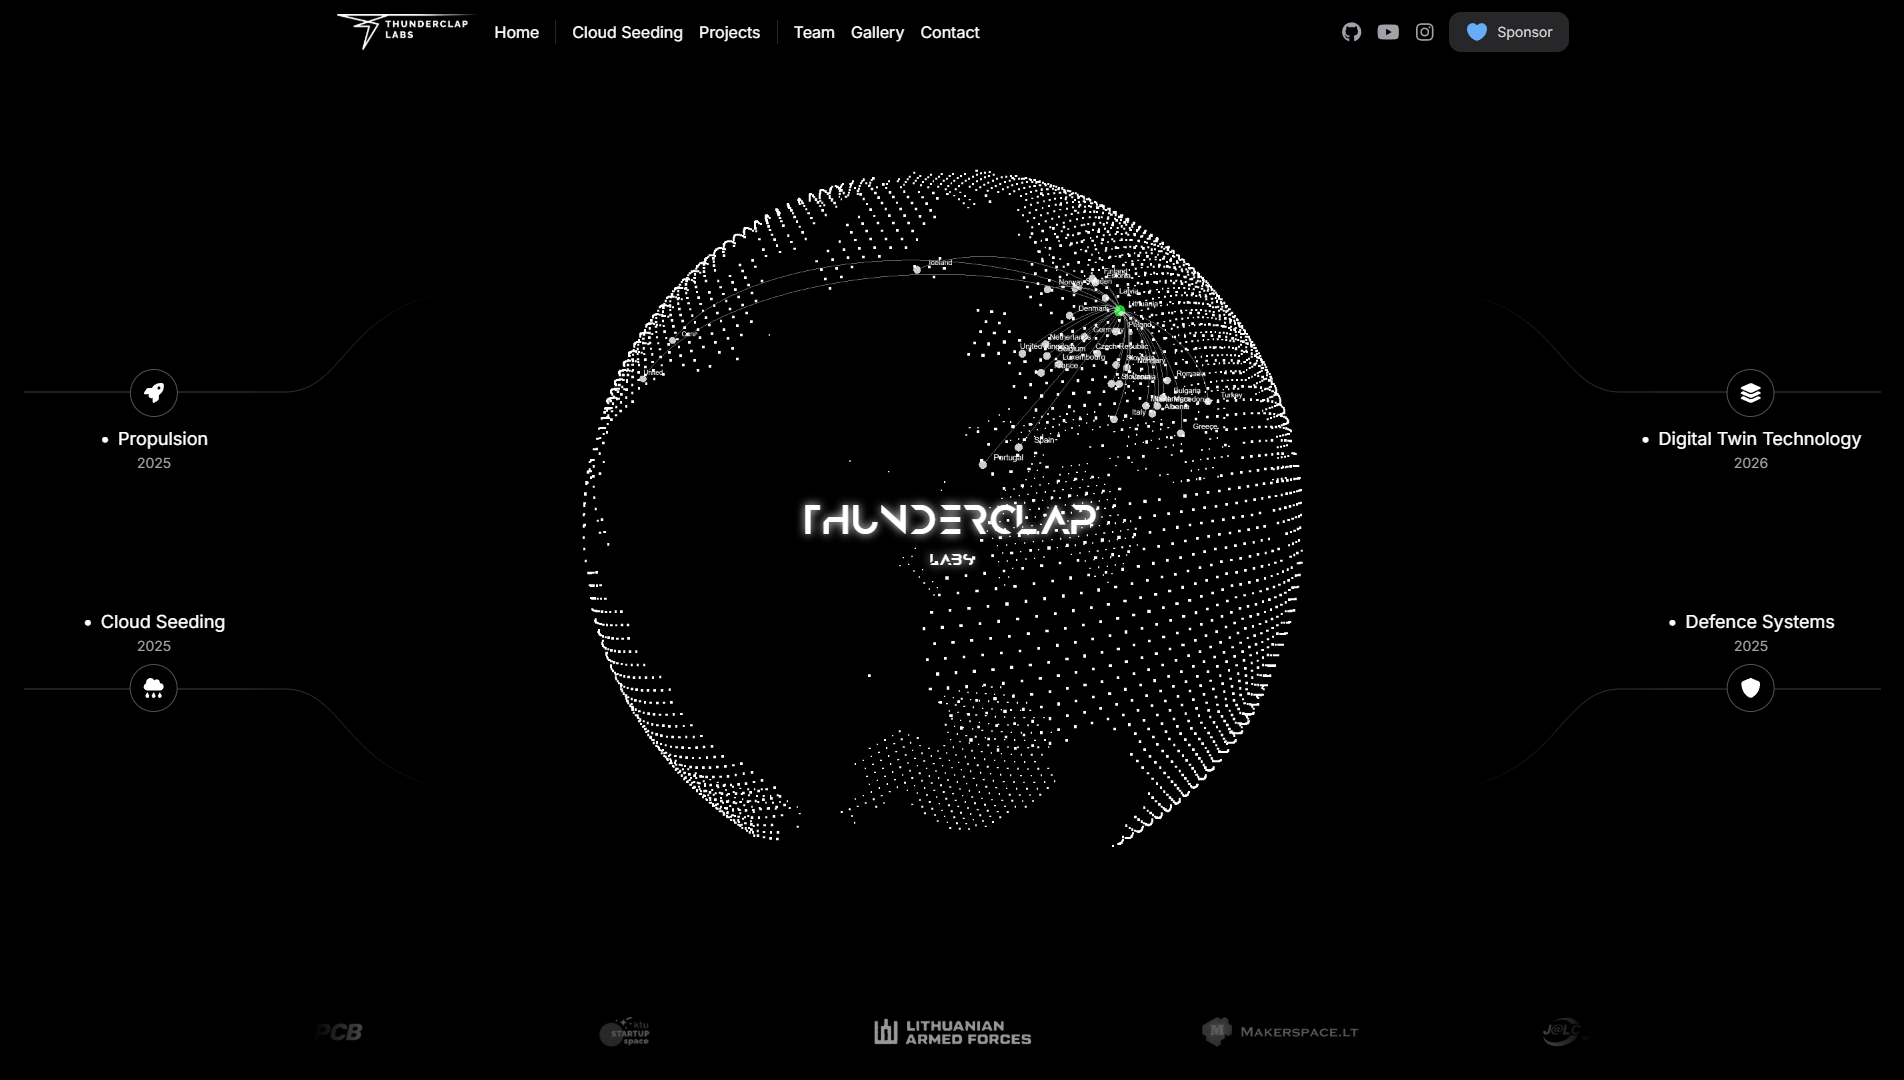
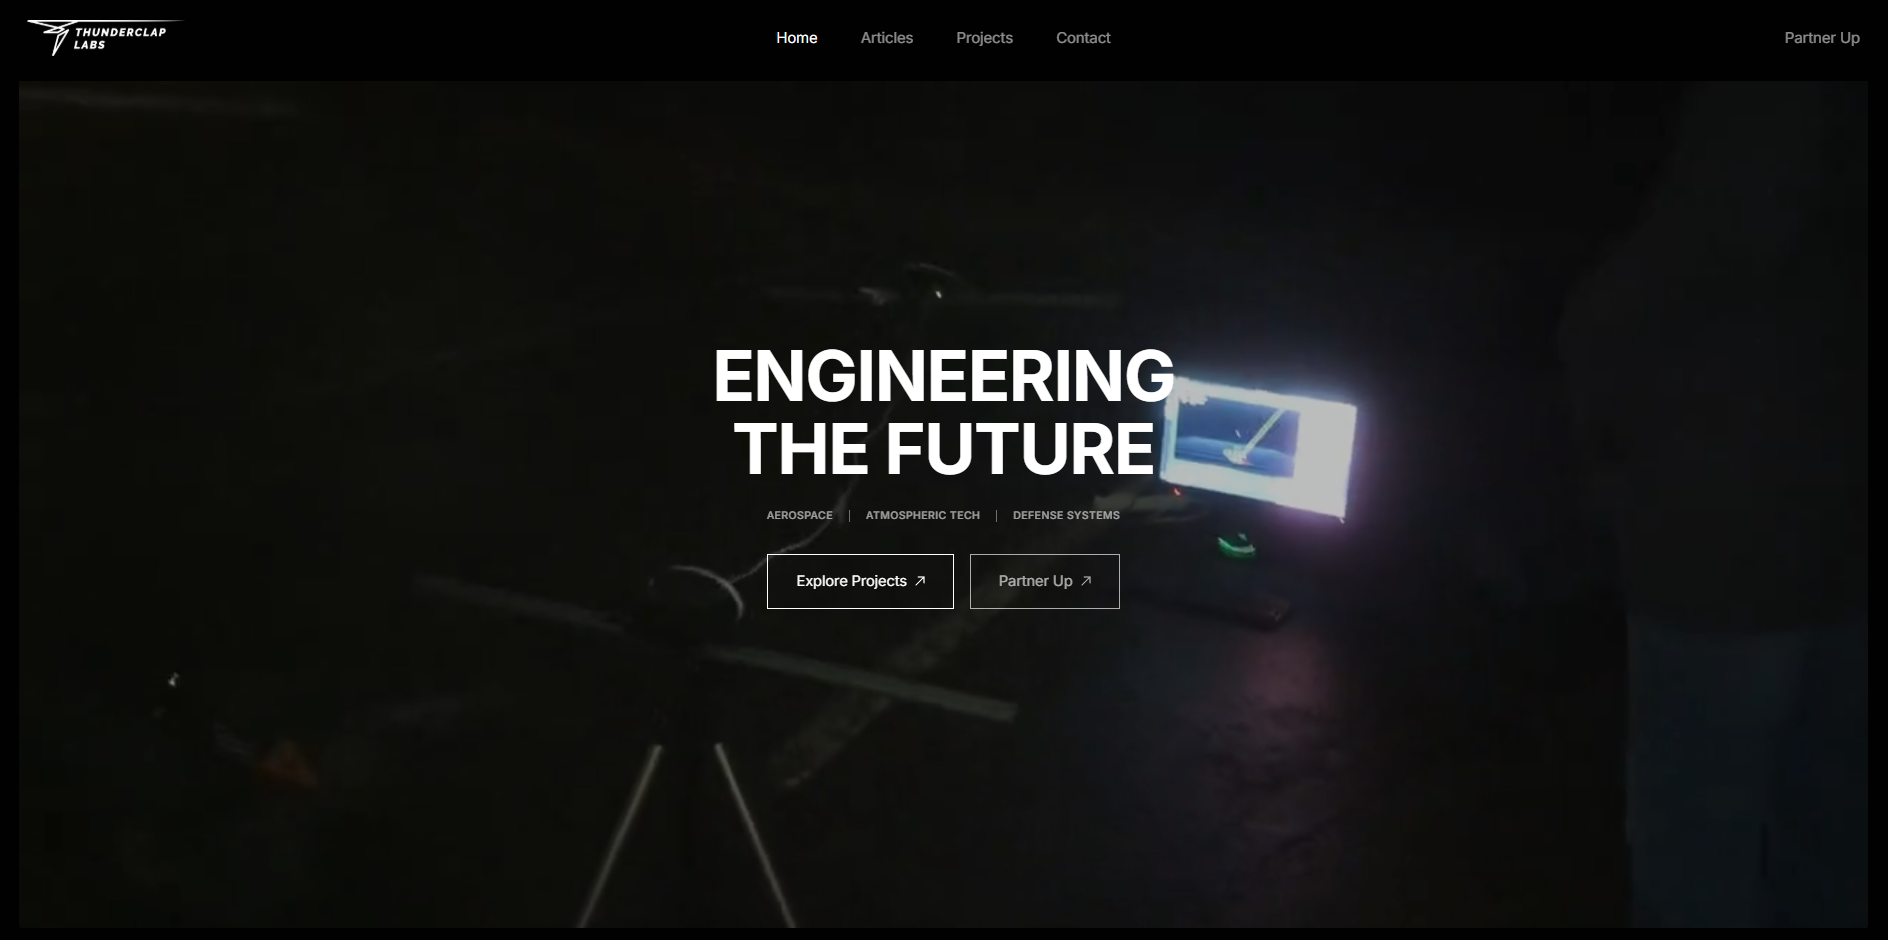
Added more projects and achievements

diff --git a/lib/projectsData.ts b/lib/projectsData.ts
@@ -3,6 +3,7 @@ import edullectus from '@/public/project_images/edullectus.png';
 import armilla from '@/public/project_images/Armilla.png';
 import lawcare from '@/public/project_images/lawcare.png';
 import thunderclap from '@/public/project_images/tclwebb.png';
+import thundereye from '@/public/project_images/tcltrack.gif';
 import nukesnshit from '@/public/project_images/nukesnshit.png';
 import cansat from '@/public/project_images/cansat.jpg';
 import fridge from '@/public/project_images/Fridge.jpg';
@@ -37,6 +38,33 @@ export interface Project {
 }
 
 export const projects: Project[] = [
+    {
+        title: 'Thunderclap Labs',
+        subTitle: "Web development",
+        date: "2024 - Present",
+        description: "Co-founded Thunderclap labs, Thunderclap Labs is at the forefront of innovation, developing critical technologies to solve complex global challenges. We build the platforms and systems that will define the next era of atmospheric management, aerospace capability, and beyond - Pioneering the next era of aerospace with a focus on rocket propulsion technologies, advanced launch systems, and sustainable aerospace solutions.",
+        image: thunderclap,
+        tags: ["AI (LLM - Gemini)", "Next", "PostgreSQL", "Tailwind", 'Python'],
+        mainLink: 'https://thunderclaplabs.com/',
+        links: {
+            website: 'https://thunderclaplabs.com/',
+            github: 'https://github.com/Thunderclap-Labs/website'
+        },
+        featured: true
+    },
+    {
+        title: 'ThunderEye',
+        subTitle: "Computer Vision / Defense Tech",
+        date: "2025 - Present",
+        description: "A compact, intelligent aerial detection platform that turns raw video into real aerial intelligence in real time. Using an array of synchronized cameras and stereo vision, ThunderEye detects moving aerial objects and reconstructs their position in 3D space — giving operators altitude, bearing, and distance, not just a pixel coordinate. Rather than relying solely on visual appearance, the system classifies objects by analyzing trajectory data over time: speed profiles, path consistency, hovering behavior, and flight envelope characteristics. Developed in partnership with the Lithuanian Riflemen's Union for counter-UAS scenarios.",
+        image: thundereye,
+        tags: ["C++", "Computer Vision", "Stereo Vision", "AI", "Edge Computing", "Defense"],
+        mainLink: 'https://thunderclaplabs.com/projects/thundereye',
+        links: {
+            website: 'https://thunderclaplabs.com/projects/thundereye',
+        },
+        featured: true
+    },
     {
         title: 'Edullectus',
         subTitle: "Web Development / AI",
@@ -74,20 +102,6 @@ export const projects: Project[] = [
         mainLink: 'https://lawcare.netlify.app',
         links: {
             website: 'https://lawcare.netlify.app'
-        },
-        featured: true
-    },
-    {
-        title: 'Thunderclap Labs',
-        subTitle: "Web development",
-        date: "2024 - Present",
-        description: "Co-founded Thunderclap labs, Thunderclap Labs is at the forefront of innovation, developing critical technologies to solve complex global challenges. We build the platforms and systems that will define the next era of atmospheric management, aerospace capability, and beyond - Pioneering the next era of aerospace with a focus on rocket propulsion technologies, advanced launch systems, and sustainable aerospace solutions.",
-        image: thunderclap,
-        tags: ["AI (LLM - Gemini)", "Next", "PostgreSQL", "Tailwind", 'Python'],
-        mainLink: 'https://thunderclaplabs.com/',
-        links: {
-            website: 'https://thunderclaplabs.com/',
-            github: 'https://github.com/Thunderclap-Labs/website'
         },
         featured: true
     },

diff --git a/lib/achievementsData.ts b/lib/achievementsData.ts
@@ -10,6 +10,21 @@ export interface AchievementItem {
 
 export const achievements: AchievementItem[] = [
   {
+    title: 'KTU Technorama 2026 - Best AI App & Grand Prize',
+    category: 'Competition',
+    description: 'Presented ThunderEye at KTU Technorama 2026 and won two top awards: the SustAInLivWork Best AI Application award and the event\'s Grand Prize.',
+    details: [
+      'Presented ThunderEye — a passive drone and bird detection system — at Santaka Valley',
+      'Received the SustAInLivWork Best AI Application award from the Centre of Excellence of AI for Sustainable Living and Working',
+      'Called back on stage to accept the event\'s Grand Prize',
+      'Left with a calendar full of scheduled meetings and concrete follow-ups with partners',
+      '<a href="https://www.linkedin.com/feed/update/urn:li:activity:7466749861841756162" class="text-blue-400 hover:text-blue-300 transition-colors" target="_blank">View announcement →</a>',
+    ],
+    link: 'https://www.linkedin.com/feed/update/urn:li:activity:7466749861841756162',
+    date: '2026',
+    icon: 'emoji_events',
+  },
+  {
     title: 'NASA Space Apps Challenge - Official Global Nominee',
     category: 'Competition',
     description: 'Developed an innovative solution for space exploration and achieved recognition as an Official Global Nominee in the prestigious NASA Space Apps Challenge.',

diff --git a/components/LiquidEther.tsx b/components/LiquidEther.tsx
@@ -307,7 +307,7 @@ export default function LiquidEther({
         this.manager = manager;
         this.enabled = opts.enabled;
         this.speed = opts.speed;
-        this.resumeDelay = opts.resumeDelay || 3000;
+        this.resumeDelay = opts.resumeDelay ?? 3000;
         this.rampDurationMs = (opts.rampDuration || 0) * 1000;
         this.pickNewTarget();
       }
@@ -1037,6 +1037,7 @@ export default function LiquidEther({
       }
       start() {
         if (this.running) return;
+        if (Common.clock) Common.clock.getDelta();
         this.running = true;
         this._loop();
       }

diff --git a/components/FeaturedProjects.tsx b/components/FeaturedProjects.tsx
@@ -9,7 +9,7 @@ import ShinyText from './ShinyText';
 import SplitText from './SplitText';
 import AOS from 'aos';
 
-const FEATURED_PROJECT_COUNT = 4;
+const FEATURED_PROJECT_COUNT = 5;
 const OTHER_PROJECTS_INITIAL = 6;
 
 export default function FeaturedProjects() {

diff --git a/components/Background.tsx b/components/Background.tsx
@@ -20,7 +20,7 @@ export default function Background() {
         autoSpeed={0.5}
         autoIntensity={2.2}
         takeoverDuration={0.25}
-        autoResumeDelay={3000}
+        autoResumeDelay={500}
         autoRampDuration={0.6}
       />
     </div>
